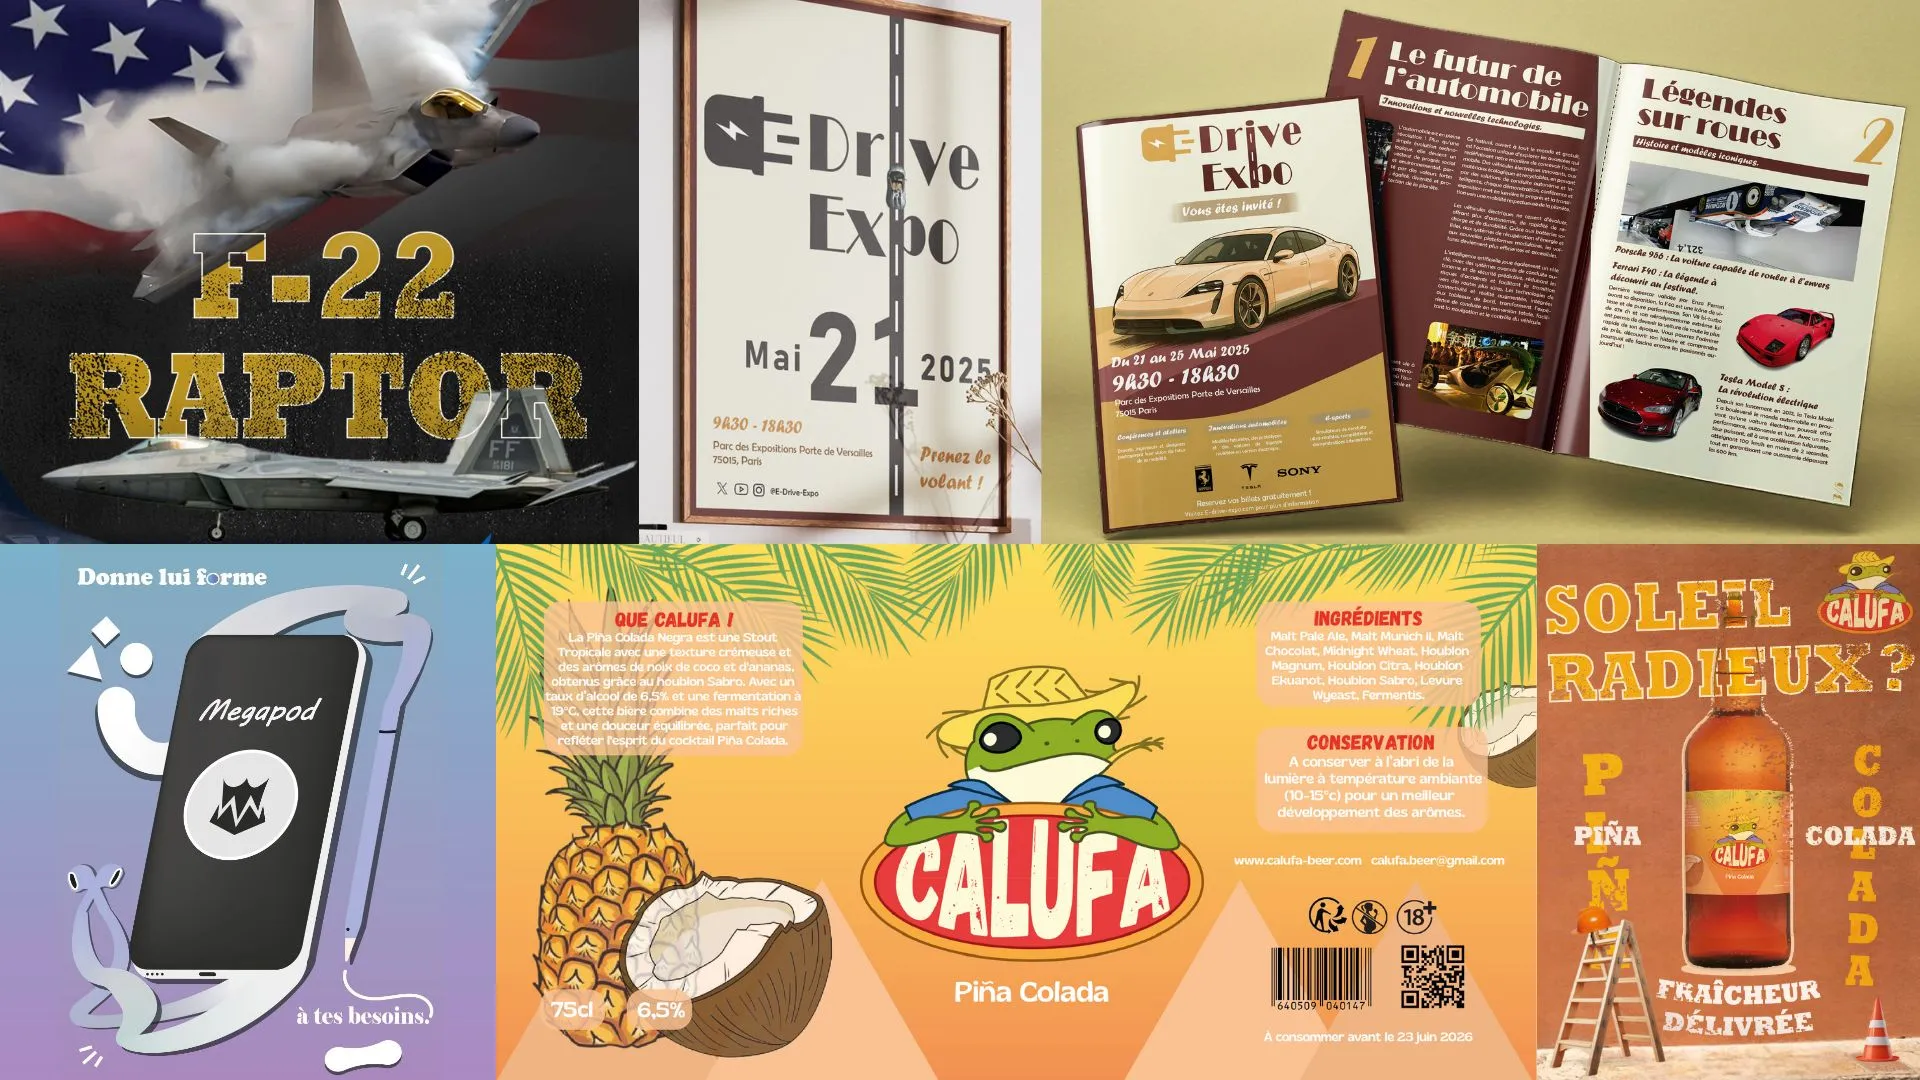
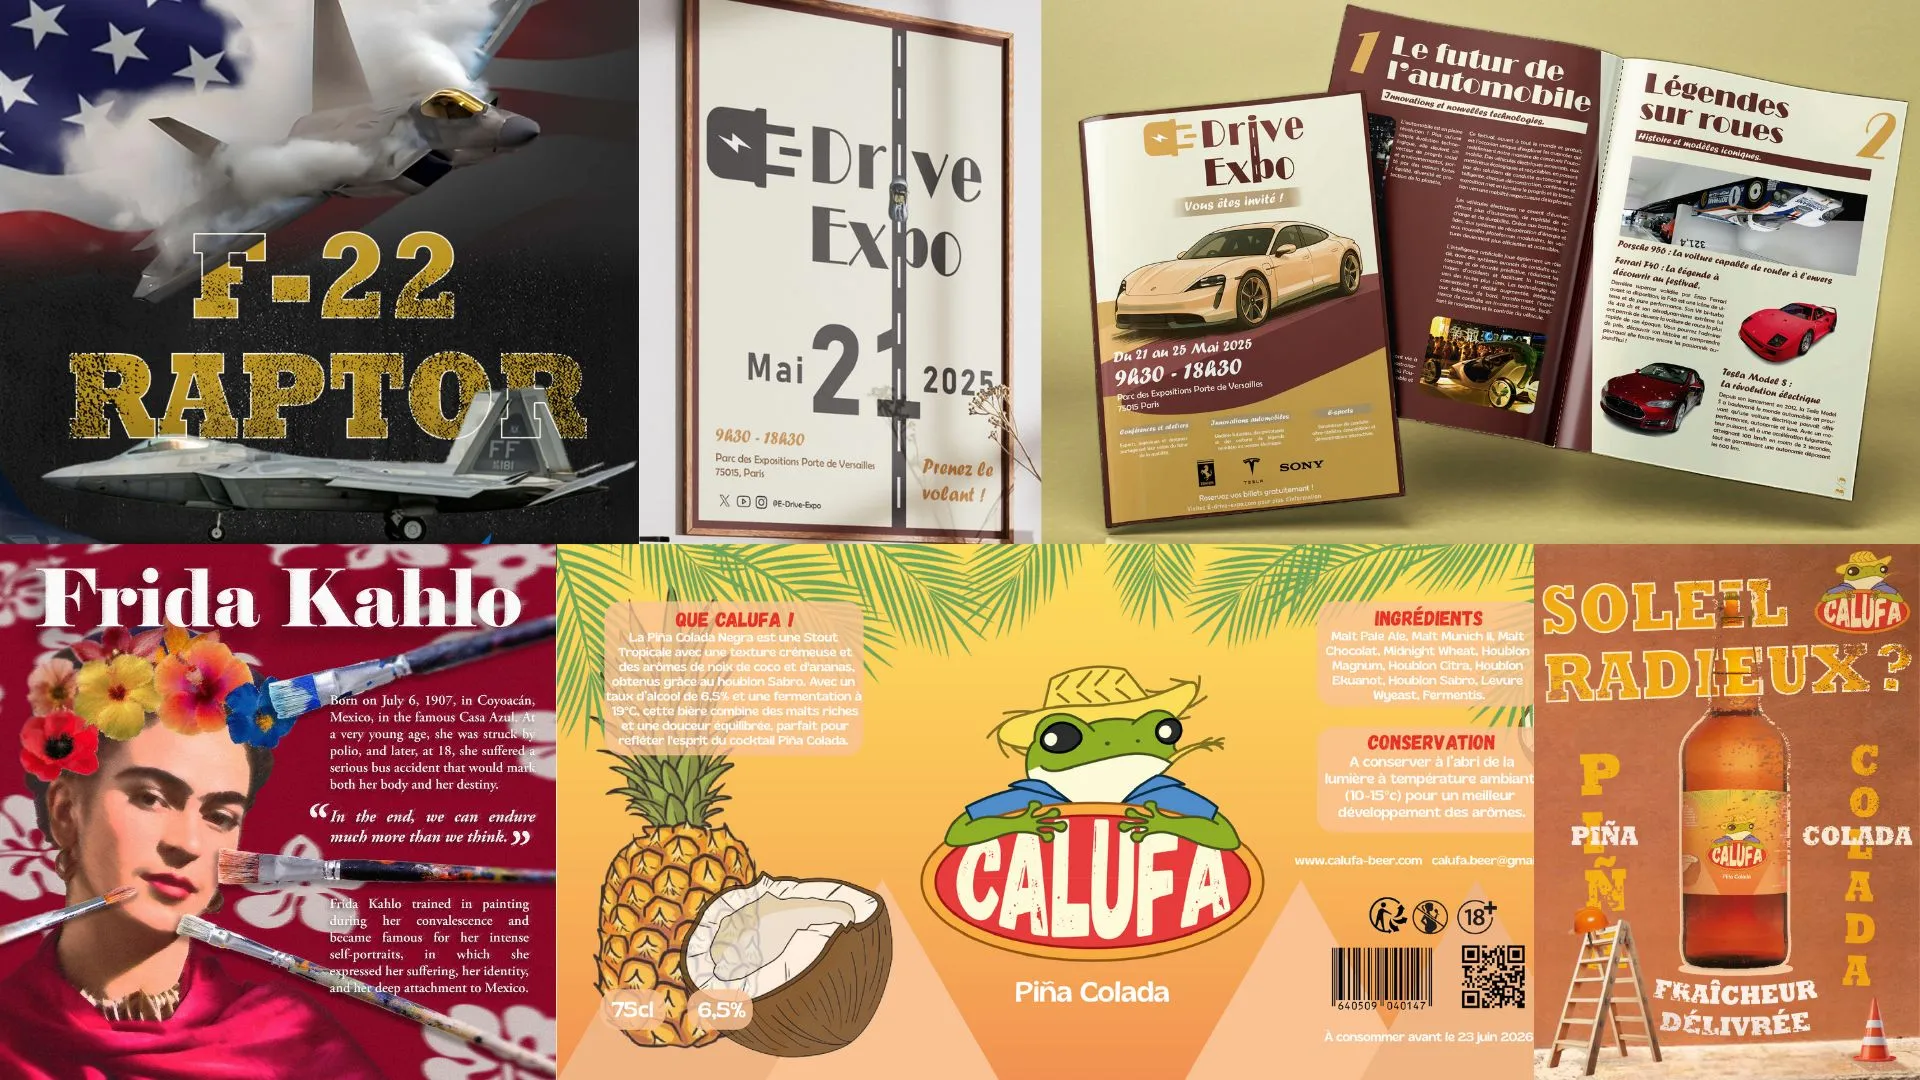
mis a jour

diff --git a/portfolio.html b/portfolio.html
@@ -163,8 +163,8 @@
 
                 <article>
                     <div>
-                        <a href="portfolio/stopmotion.html"><img class="projets"
-                                src="images/min_stopmotionvideo.webp" loading="lazy"></a>
+                        <a href="portfolio/stopmotion.html"><img class="projets" src="images/min_stopmotionvideo.webp"
+                                loading="lazy"></a>
                     </div>
 
                     <div class="description_article">
@@ -205,6 +205,25 @@
                     </div>
                 </article>
 
+                <article>
+                    <div>
+                        <a href="portfolio/ilustrations.html"><img class="projets" src="images/min_ilustrations.webp"
+                                loading="lazy"></a>
+                    </div>
+
+                    <div class="description_article">
+                        <h2 style="margin: 0.2em;">Illustrations</h2>
+
+                        <p style="margin: 0.15em">
+                            Toutes mes illustrations réalisés<br>
+                            seul ou avec une équipe.
+                        </p>
+                        <br>
+
+                        <img style="width: 30%; margin: 0;" src="images/illustratorbanner.webp" loading="lazy">
+                        <img style="width: 30%; margin: 0;" src="images/photoshopbanner.webp" loading="lazy">
+                    </div>
+                </article>
 
                 <article>
                     <div>
@@ -237,12 +256,31 @@
                         <h2 style="margin: 0.2em;">F-22 Raptor</h2>
 
                         <p style="margin: 0.15em">
-                            Affiche de mon avion de chasse <br> 
+                            Affiche de mon avion de chasse <br>
                             préféré, le F-22 Raptor.
                         </p>
                         <br>
 
                         <img style="width: 30%; margin: 0;" src="images/photoshopbanner.webp" loading="lazy">
+                    </div>
+                </article>
+
+                <article>
+                    <div>
+                        <a href="portfolio/fridakahloaffiche.html"><img class="projets" src="images/min_fridakahlo.webp"
+                                loading="lazy"></a>
+                    </div>
+
+                    <div class="description_article">
+                        <h2 style="margin: 0.2em;">Affiche Frida Kahlo</h2>
+
+                        <p style="margin: 0.15em">
+                            Affiche biographique de Frida Kahlo, illustrant son histoire et mettant en lumière son
+                            importance
+                        </p>
+                        <br>
+
+                        <img style="width: 30%; margin: 0;" src="images/illustratorbanner.webp" loading="lazy">
                     </div>
                 </article>
 
@@ -261,45 +299,6 @@
                         </p>
                         <img style="width: 30%; margin: 0;" src="images/premiereprobanner.webp" loading="lazy">
                         <img style="width: 30%; margin: 0;" src="images/photoshopbanner.webp" loading="lazy">
-                        <img style="width: 30%; margin: 0;" src="images/illustratorbanner.webp" loading="lazy">
-                    </div>
-                </article>
-
-                <article>
-                    <div>
-                        <a href="portfolio/ilustrations.html"><img class="projets" src="images/min_ilustrations.webp"
-                                loading="lazy"></a>
-                    </div>
-
-                    <div class="description_article">
-                        <h2 style="margin: 0.2em;">Illustrations</h2>
-
-                        <p style="margin: 0.15em">
-                            Toutes mes illustrations réalisés<br>
-                            seul ou avec une équipe.
-                        </p>
-                        <br>
-
-                        <img style="width: 30%; margin: 0;" src="images/illustratorbanner.webp" loading="lazy">
-                        <img style="width: 30%; margin: 0;" src="images/photoshopbanner.webp" loading="lazy">
-                    </div>
-                </article>
-
-                <article>
-                    <div>
-                        <a href="portfolio/calufaaffiche.html"><img class="projets" src="images/min_affichecalufa.webp"
-                                loading="lazy"></a>
-                    </div>
-
-                    <div class="description_article">
-                        <h2 style="margin: 0.2em;">Affiche CALUFA</h2>
-
-                        <p style="margin: 0.15em">
-                            Mon affiche publicitaire pour la <br>
-                            marque de bière CALUFA.
-                        </p>
-                        <br>
-
                         <img style="width: 30%; margin: 0;" src="images/illustratorbanner.webp" loading="lazy">
                     </div>
                 </article>
@@ -327,7 +326,8 @@
                         </p>
                         <img style="width: 30%; margin: 0;" src="images/htmlbanner.webp" loading="lazy">
                         <img style="width: 30%; margin: 0;" src="images/cssbanner.webp" loading="lazy">
-                        <img style="width: 30%; margin-bottom: 0.9em;" src="images/javascriptbanner2.webp" loading="lazy">
+                        <img style="width: 30%; margin-bottom: 0.9em;" src="images/javascriptbanner2.webp"
+                            loading="lazy">
                         <img style="width: 30%; margin: 0;" src="images/phpbanner.webp" loading="lazy">
                     </div>
                 </article>
@@ -342,11 +342,13 @@
                         <h2 style="margin: 0.2em;">Association IJT</h2>
 
                         <p style="margin: 0.15em">
-                            Site web de l'association fictive Inclusion des Jeunes au Travail, offrant des actualités et informations.
+                            Site web de l'association fictive Inclusion des Jeunes au Travail, offrant des actualités et
+                            informations.
                         </p>
                         <img style="width: 30%; margin: 0;" src="images/htmlbanner.webp" loading="lazy">
                         <img style="width: 30%; margin: 0;" src="images/cssbanner.webp" loading="lazy">
-                        <img style="width: 30%; margin-bottom: 0.9em;" src="images/javascriptbanner2.webp" loading="lazy">
+                        <img style="width: 30%; margin-bottom: 0.9em;" src="images/javascriptbanner2.webp"
+                            loading="lazy">
                     </div>
                 </article>
 

diff --git a/portfolio/fridakahloaffiche.html b/portfolio/fridakahloaffiche.html
@@ -25,9 +25,9 @@
     </header>
 
     <main>
-        <h3 style="font-size: 3.2em; margin: 0.5em 0 0.4em;">Affiche CALUFA</h3>
+        <h3 style="font-size: 3.2em; margin: 0.5em 0 0.4em;">Affiche Frida Kahlo</h3>
 
-        <img src="../images/affiche_calufa.webp" style="width: 45%; margin: 1em 0 2em; cursor: -webkit-zoom-in;"
+        <img src="../images/FridaKahlo.webp" style="width: 45%; margin: 1em 0 2em; cursor: -webkit-zoom-in;"
             onclick="openFullscreen(this)">
 
         <div id="fullscreen-view" class="fullscreen" style="display: none;">
@@ -42,24 +42,21 @@
         <div style="display: flex; flex-direction: column; align-items: center;">
             <article style="display: flex; flex-direction: column; align-items: center; margin: 0em 0em 2em;">
                 <div>
-                    <a href="../portfolio/calufa.html"><img class="projets" src="../images/min_calufaweb.webp"></a>
-                </div>
+                        <a href="../portfolio/f22raptor.html"><img class="projets" src="../images/min_f22raptor.webp"
+                                loading="lazy"></a>
+                    </div>
 
-                <div style="text-align: center;">
-                    <h2 style="margin: 0.2em;">Marque de bière CALUFA</h2>
+                    <div class="description_article">
+                        <h2 style="margin: 0.2em;">F-22 Raptor</h2>
 
-                    <p style="margin: 0.15em">
-                        Création d'une marque de bière portoricaine en collaboration avec une équipe d'
-                        étudiants en Génie Biologique.
-                    </p>
+                        <p style="margin: 0.15em">
+                            Affiche de mon avion de chasse <br>
+                            préféré, le F-22 Raptor.
+                        </p>
+                        <br>
 
-                    <img style="width: 30%; margin: 0;" src="../images/premiereprobanner.webp">
-                    <img style="width: 30%; margin: 0;" src="../images/photoshopbanner.webp">
-                    <img style="width: 30%; margin: 0;" src="../images/htmlbanner.webp">
-                    <img style="width: 30%; margin: 0;" src="../images/cssbanner.webp">
-                    <img style="width: 30%; margin: 0; margin-bottom: 1em;" src="../images/javascriptbanner2.webp">
-                    <img style="width: 30%; margin: 0;" src="../images/phpbanner.webp">
-                </div>
+                        <img style="width: 30%; margin: 0;" src="../images/photoshopbanner.webp" loading="lazy">
+                    </div>
             </article>
         </div>
 

diff --git a/portfolio/ilustrations.html b/portfolio/ilustrations.html
@@ -27,14 +27,16 @@
     <main>
         <h3 style="font-size: 3.2em; margin: 0.5em 0 0.4em;">Ilustrations</h3>
         <div class="collage2">
+            
+            <div>
+                <img src="../images/f22raptor.webp" onclick="openFullscreen(this)">
+                <img src="../images/FridaKahlo.webp" onclick="openFullscreen(this)">
+                <img src="../images/affiche_calufa.webp" onclick="openFullscreen(this)"> 
+            </div>
+
             <div>
                 <img src="../images/ilustrations (1).webp" onclick="openFullscreen(this)" style="width: 33%;">
                 <img src="../images/fresay_coco.webp" onclick="openFullscreen(this)" style="width: 33%;">
-            </div>
-            <div>
-                <img src="../images/f22raptor.webp" onclick="openFullscreen(this)">
-                <img src="../images/affiche_calufa.webp" onclick="openFullscreen(this)">
-                <img src="../images/ilustrations (3).webp" onclick="openFullscreen(this)">
             </div>
 
             <div>
@@ -47,8 +49,7 @@
             <div>
                 <img src="../images/afficheexpodrive (2).webp" width="20%" onclick="openFullscreen(this)"
                     style="cursor: zoom-in;">
-                <img src="../images/afficheexpodrive2.webp" width="20%" onclick="openFullscreen(this)"
-                    style="cursor: zoom-in;">
+                <img src="../images/megapod.webp" onclick="openFullscreen(this)">
                 <img src="../images/afficheexpodrive (1).webp" width="20%" onclick="openFullscreen(this)"
                     style="cursor: zoom-in;">
             </div>

diff --git a/portfolio/f22raptor.html b/portfolio/f22raptor.html
@@ -35,6 +35,31 @@
             <img id="fullscreen-image" src="" alt="Fullscreen Image">
         </div>
 
+        <div class="recomendation">
+            <h3 style="font-size: 3.2em; margin: 0.5em;">Ça peut vous intéresser aussi :</h3>
+        </div>
+
+        <div style="display: flex; flex-direction: column; align-items: center;">
+            <article style="display: flex; flex-direction: column; align-items: center; margin: 0em 0em 2em;">
+                <div>
+                        <a href="../portfolio/fridakahloaffiche.html"><img class="projets" src="../images/min_fridakahlo.webp"
+                                loading="lazy"></a>
+                    </div>
+
+                    <div class="description_article">
+                        <h2 style="margin: 0.2em;">Affiche Frida Kahlo</h2>
+
+                        <p style="margin: 0.15em">
+                            Affiche biographique de Frida Kahlo, illustrant son histoire et mettant en lumière son
+                            importance
+                        </p>
+                        <br>
+
+                        <img style="width: 30%; margin: 0;" src="../images/illustratorbanner.webp" loading="lazy">
+                    </div>
+            </article>
+        </div>
+
         <script src="../fullscreen.js"></script>
 
     </main>

diff --git a/index.html b/index.html
@@ -32,7 +32,7 @@
                 style="color: rgb(110, 196, 115);">Designer Web</span>
         </p>
         <p class="description">Bienvenue sur mon portfolio. Découvrez mes projets et réalisations,<br>
-             fruits de ma passion pour la création.</p>
+            fruits de ma passion pour la création.</p>
         <a href="portfolio.html" class="bouton">Commencer</a>
     </div>
 
@@ -43,11 +43,11 @@
             <a href="mailto:safuanmahroum@gmail.com"><img src="images/mail.svg"></a>
             <a href="tel:+33758478107"><img src="images/call.svg"></a>
         </div>
-    
+
         <div>
             <p>Copyright &copy; 2026 - Safuan Mahroum</p>
         </div>
-    
+
         <div class="creation">
             <p>Tous mes liens pro :</p>
             <a href="https://beacons.ai/safuanmahroum" target="_blank">
